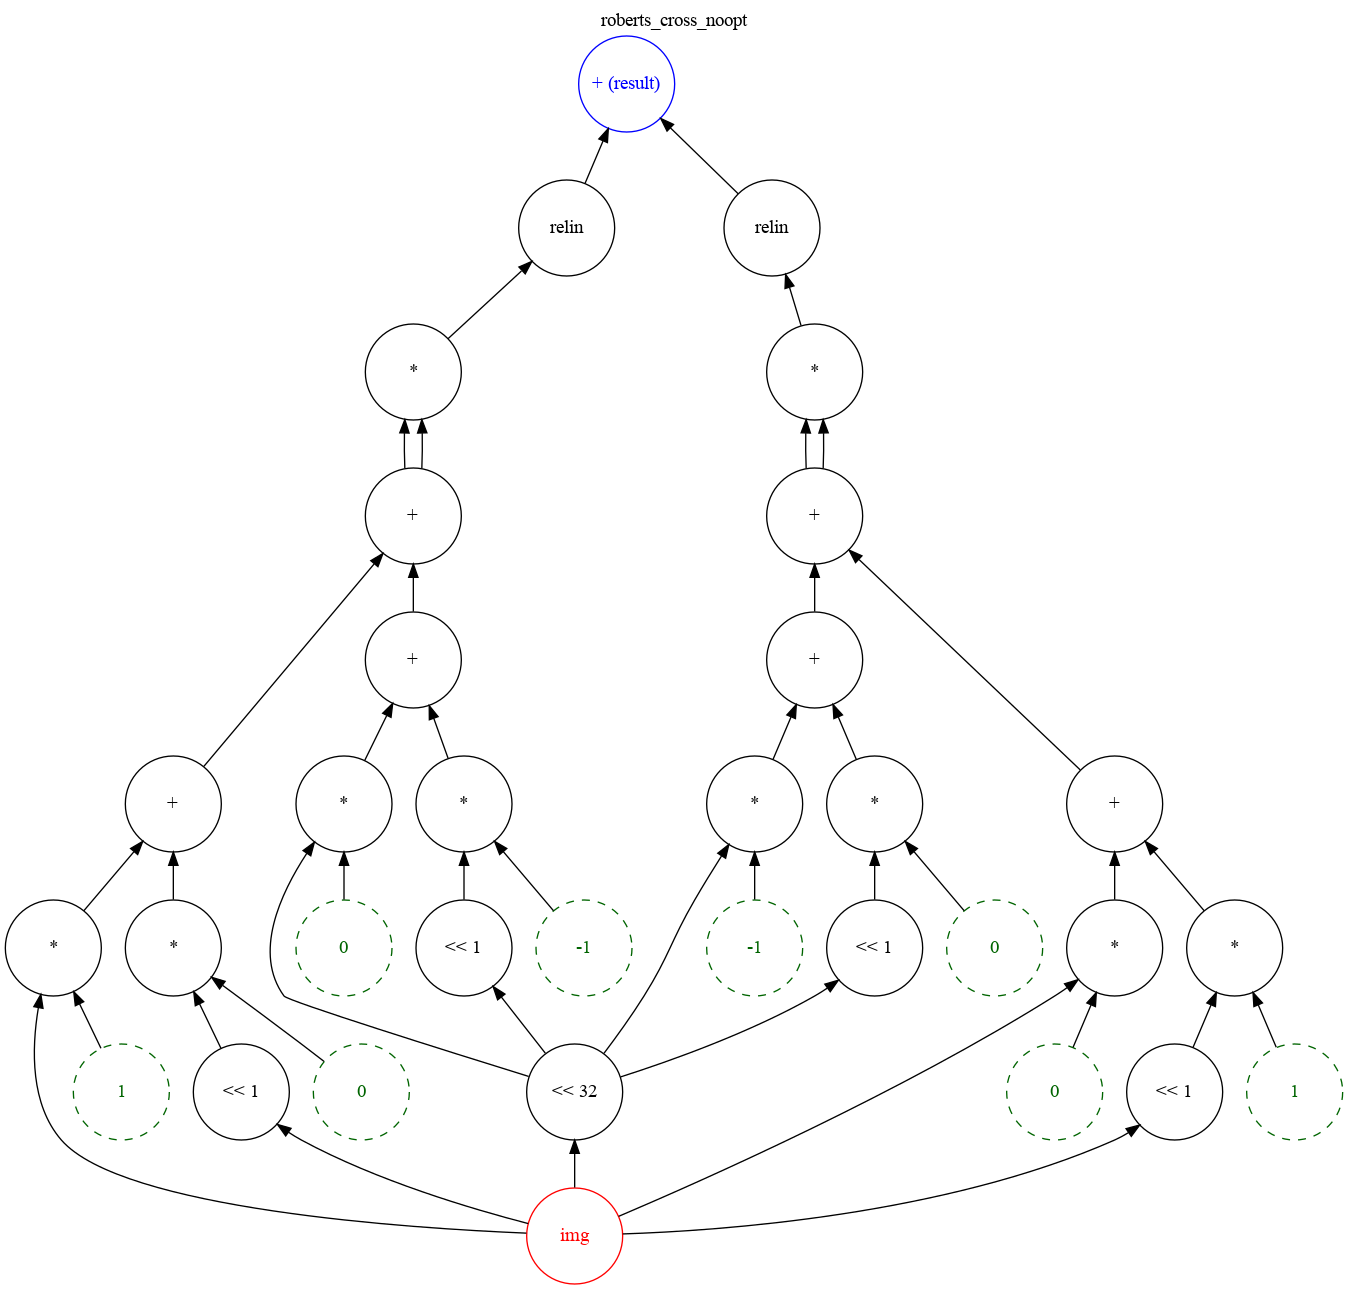
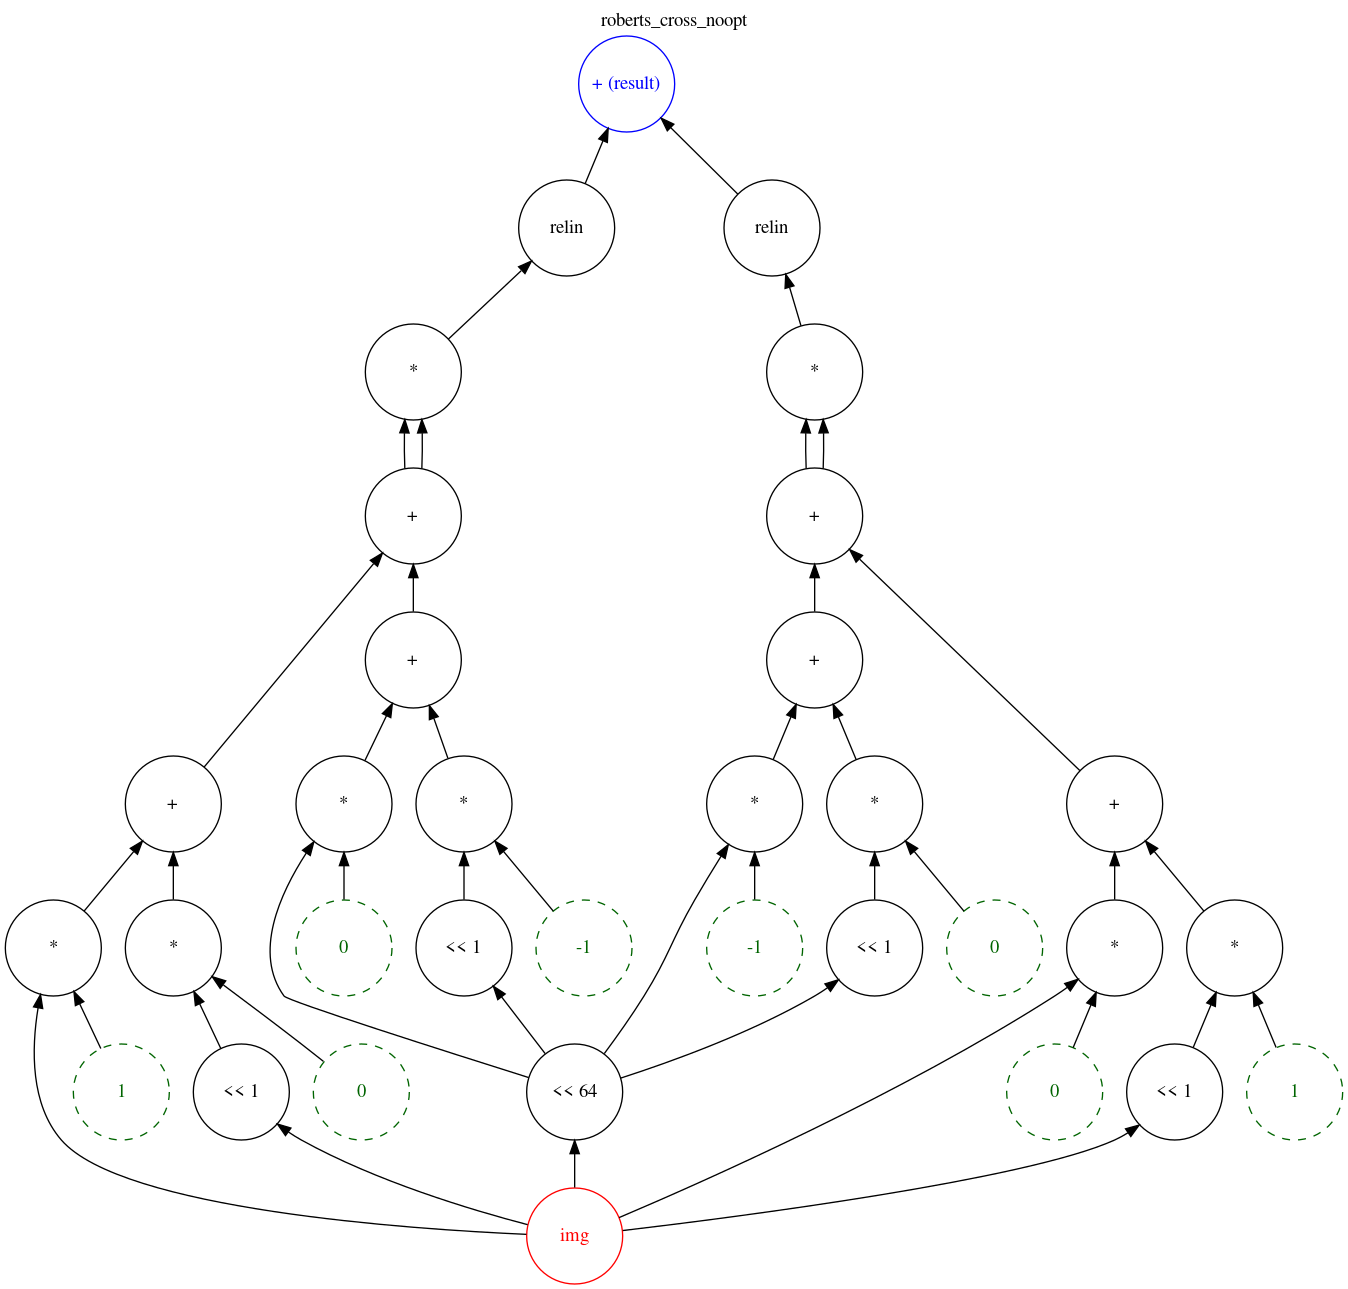
evaluate roberts_cross

Changed region(s): [[0.4674, 0.931, 0.6231, 0.962], [0.6855, 0.8999, 0.7789, 0.931], [0.3116, 0.931, 0.3739, 0.962]]

diff --git a/benchmarks/roberts_cross/he/gen_he_roberts_cross_noopt.cpp b/benchmarks/roberts_cross/he/gen_he_roberts_cross_noopt.cpp
@@ -18,50 +18,50 @@ const GaloisKeys &galois_keys)
 {
 Ciphertext c1 = encrypted_inputs.at("img");
 size_t slot_count = encoder.slot_count();
-Plaintext p24;
-encoder.encode(vector<std::int64_t>(slot_count, 0), p24);
-Plaintext p11;
-encoder.encode(vector<std::int64_t>(slot_count, -1), p11);
-Plaintext p22;
-encoder.encode(vector<std::int64_t>(slot_count, -1), p22);
-Plaintext p9;
-encoder.encode(vector<std::int64_t>(slot_count, 0), p9);
-Plaintext p18;
-encoder.encode(vector<std::int64_t>(slot_count, 1), p18);
-Plaintext p5;
-encoder.encode(vector<std::int64_t>(slot_count, 0), p5);
-Plaintext p16;
-encoder.encode(vector<std::int64_t>(slot_count, 0), p16);
-Plaintext p3;
-encoder.encode(vector<std::int64_t>(slot_count, 1), p3);
+Plaintext p25;
+encoder.encode(vector<std::int64_t>(slot_count, -1), p25);
+Plaintext p19;
+encoder.encode(vector<std::int64_t>(slot_count, 0), p19);
+Plaintext p4;
+encoder.encode(vector<std::int64_t>(slot_count, 0), p4);
+Plaintext p10;
+encoder.encode(vector<std::int64_t>(slot_count, -1), p10);
+Plaintext p23;
+encoder.encode(vector<std::int64_t>(slot_count, 0), p23);
+Plaintext p12;
+encoder.encode(vector<std::int64_t>(slot_count, 0), p12);
+Plaintext p6;
+encoder.encode(vector<std::int64_t>(slot_count, 1), p6);
+Plaintext p17;
+encoder.encode(vector<std::int64_t>(slot_count, 1), p17);
 Ciphertext c34;
-evaluator.multiply_plain(c1, p3, c34);
-Ciphertext c6;
-evaluator.rotate_rows(c1, 1, galois_keys, c6);
-evaluator.multiply_plain(c6, p5, c6);
-evaluator.add(c34, c6, c34);
-evaluator.rotate_rows(c1, 64, galois_keys, c6);
+evaluator.multiply_plain(c1, p6, c34);
+Ciphertext c3;
+evaluator.rotate_rows(c1, 1, galois_keys, c3);
+evaluator.multiply_plain(c3, p4, c3);
+evaluator.add(c34, c3, c34);
+evaluator.rotate_rows(c1, 64, galois_keys, c3);
 Ciphertext c36;
-evaluator.multiply_plain(c6, p9, c36);
-Ciphertext c12;
-evaluator.rotate_rows(c6, 1, galois_keys, c12);
-evaluator.multiply_plain(c12, p11, c12);
-evaluator.add(c36, c12, c36);
+evaluator.multiply_plain(c3, p12, c36);
+Ciphertext c9;
+evaluator.rotate_rows(c3, 1, galois_keys, c9);
+evaluator.multiply_plain(c9, p10, c9);
+evaluator.add(c36, c9, c36);
 evaluator.add(c34, c36, c34);
 evaluator.multiply(c34, c34, c34);
 evaluator.relinearize(c34, relin_keys, c34);
-evaluator.multiply_plain(c1, p16, c12);
+evaluator.multiply_plain(c1, p19, c36);
 evaluator.rotate_rows(c1, 1, galois_keys, c1);
-evaluator.multiply_plain(c1, p18, c1);
-evaluator.add(c12, c1, c12);
-evaluator.multiply_plain(c6, p22, c1);
-evaluator.rotate_rows(c6, 1, galois_keys, c6);
-evaluator.multiply_plain(c6, p24, c6);
-evaluator.add(c1, c6, c1);
-evaluator.add(c12, c1, c12);
-evaluator.multiply(c12, c12, c12);
-evaluator.relinearize(c12, relin_keys, c12);
-evaluator.add(c34, c12, c34);
+evaluator.multiply_plain(c1, p17, c1);
+evaluator.add(c36, c1, c36);
+evaluator.multiply_plain(c3, p25, c1);
+evaluator.rotate_rows(c3, 1, galois_keys, c3);
+evaluator.multiply_plain(c3, p23, c3);
+evaluator.add(c1, c3, c1);
+evaluator.add(c36, c1, c36);
+evaluator.multiply(c36, c36, c36);
+evaluator.relinearize(c36, relin_keys, c36);
+evaluator.add(c34, c36, c34);
 encrypted_outputs.emplace("result", move(c34));
 }
 

diff --git a/benchmarks/roberts_cross/he/gen_he_roberts_cross_opt.cpp b/benchmarks/roberts_cross/he/gen_he_roberts_cross_opt.cpp
@@ -17,19 +17,19 @@ const RelinKeys &relin_keys,
 const GaloisKeys &galois_keys)
 {
 Ciphertext c42 = encrypted_inputs.at("img");
-Ciphertext c66;
-evaluator.rotate_rows(c42, 65, galois_keys, c66);
-evaluator.sub(c42, c66, c66);
-evaluator.square(c66, c66);
-Ciphertext c72;
-evaluator.rotate_rows(c42, 63, galois_keys, c72);
-evaluator.sub(c42, c72, c42);
-evaluator.rotate_rows(c42, 1, galois_keys, c42);
+Ciphertext c44;
+evaluator.rotate_rows(c42, 1, galois_keys, c44);
+Ciphertext c43;
+evaluator.rotate_rows(c42, 64, galois_keys, c43);
+evaluator.sub(c44, c43, c44);
+evaluator.square(c44, c44);
+evaluator.rotate_rows(c42, 65, galois_keys, c43);
+evaluator.sub(c42, c43, c42);
 evaluator.square(c42, c42);
-evaluator.add(c66, c42, c66);
-encrypted_outputs.emplace("result", move(c66));
+evaluator.add(c44, c42, c44);
+encrypted_outputs.emplace("result", move(c44));
 }
 
 vector<int> get_rotation_steps_roberts_cross_opt(){
-return vector<int>{65, 63, 1};
+return vector<int>{64, 1, 65};
 }

diff --git a/benchmarks/roberts_cross/roberts_cross_checks.cpp b/benchmarks/roberts_cross/roberts_cross_checks.cpp
@@ -36,7 +36,7 @@ void roberts_cross_baseline(size_t width)
   // gx
   Ciphertext gx = img - (img << (width + 1));
   // gy
-  Ciphertext gy = (img << 1) - img << width;
+  Ciphertext gy = (img << 1) - (img << width);
   // combine
   Ciphertext result = square(gx) + square(gy);
   result.set_output("result");
@@ -53,7 +53,7 @@ int main(int argc, char **argv)
   if (argc > 1)
     call_quantifier = stoi(argv[1]);
 
-  auto ruleset = Compiler::Ruleset::ops_cost;
+  auto ruleset = Compiler::Ruleset::joined;
   if (argc > 2)
     ruleset = static_cast<Compiler::Ruleset>(stoi(argv[2]));
 

diff --git a/benchmarks/roberts_cross/roberts_cross.cpp b/benchmarks/roberts_cross/roberts_cross.cpp
@@ -42,7 +42,7 @@ int main(int argc, char **argv)
   if (argc > 1)
     call_quantifier = stoi(argv[1]);
 
-  auto ruleset = Compiler::Ruleset::ops_cost;
+  auto ruleset = Compiler::Ruleset::joined;
   if (argc > 2)
     ruleset = static_cast<Compiler::Ruleset>(stoi(argv[2]));
 
